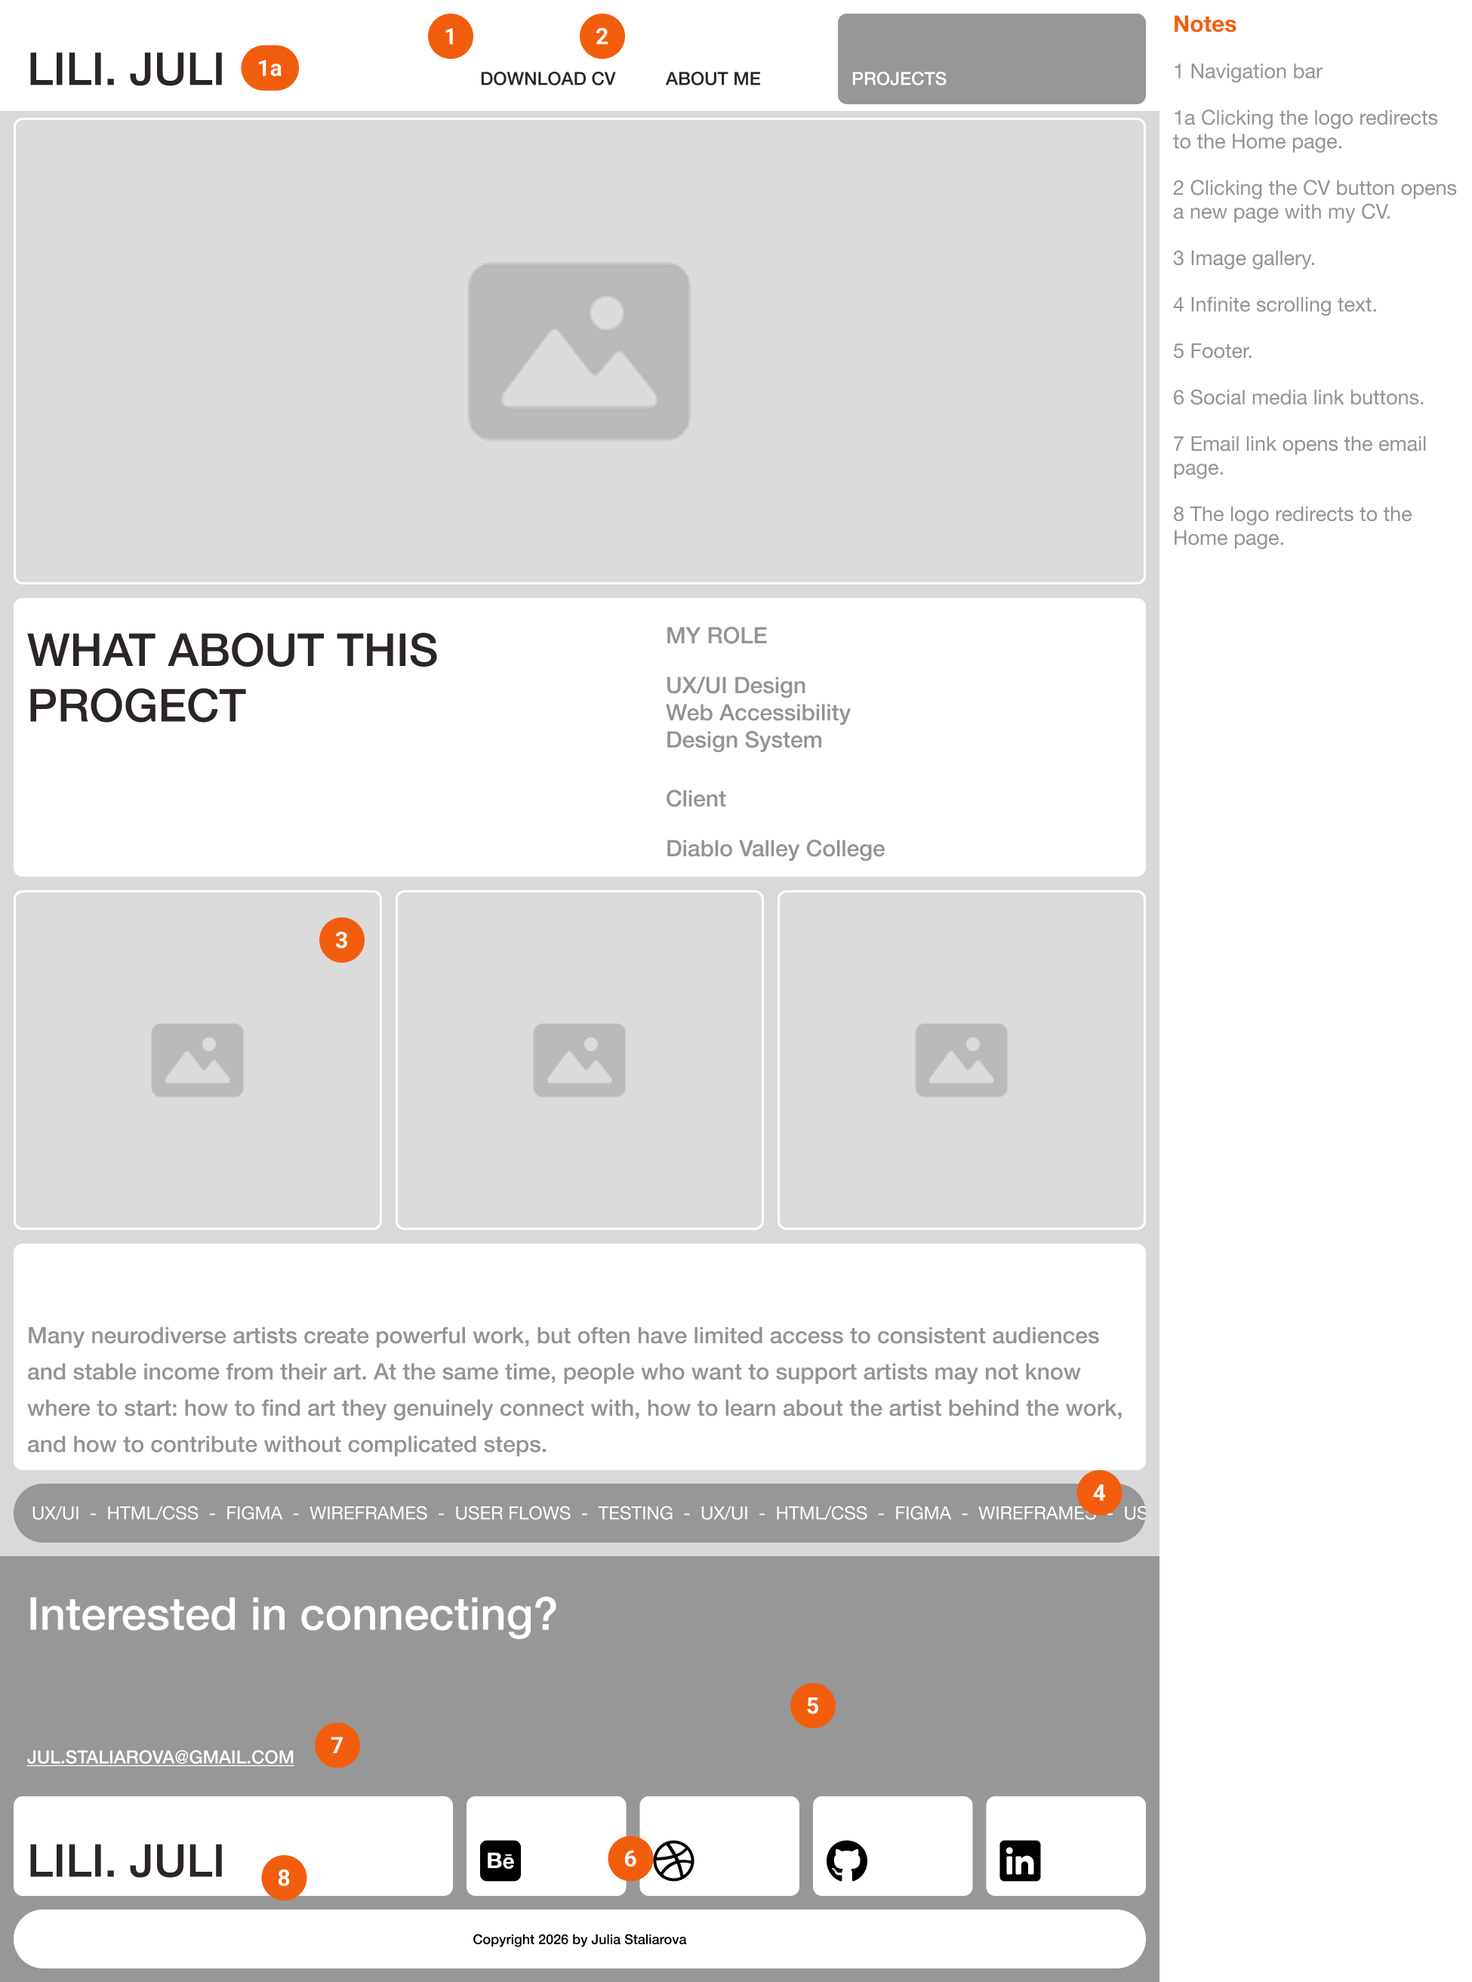
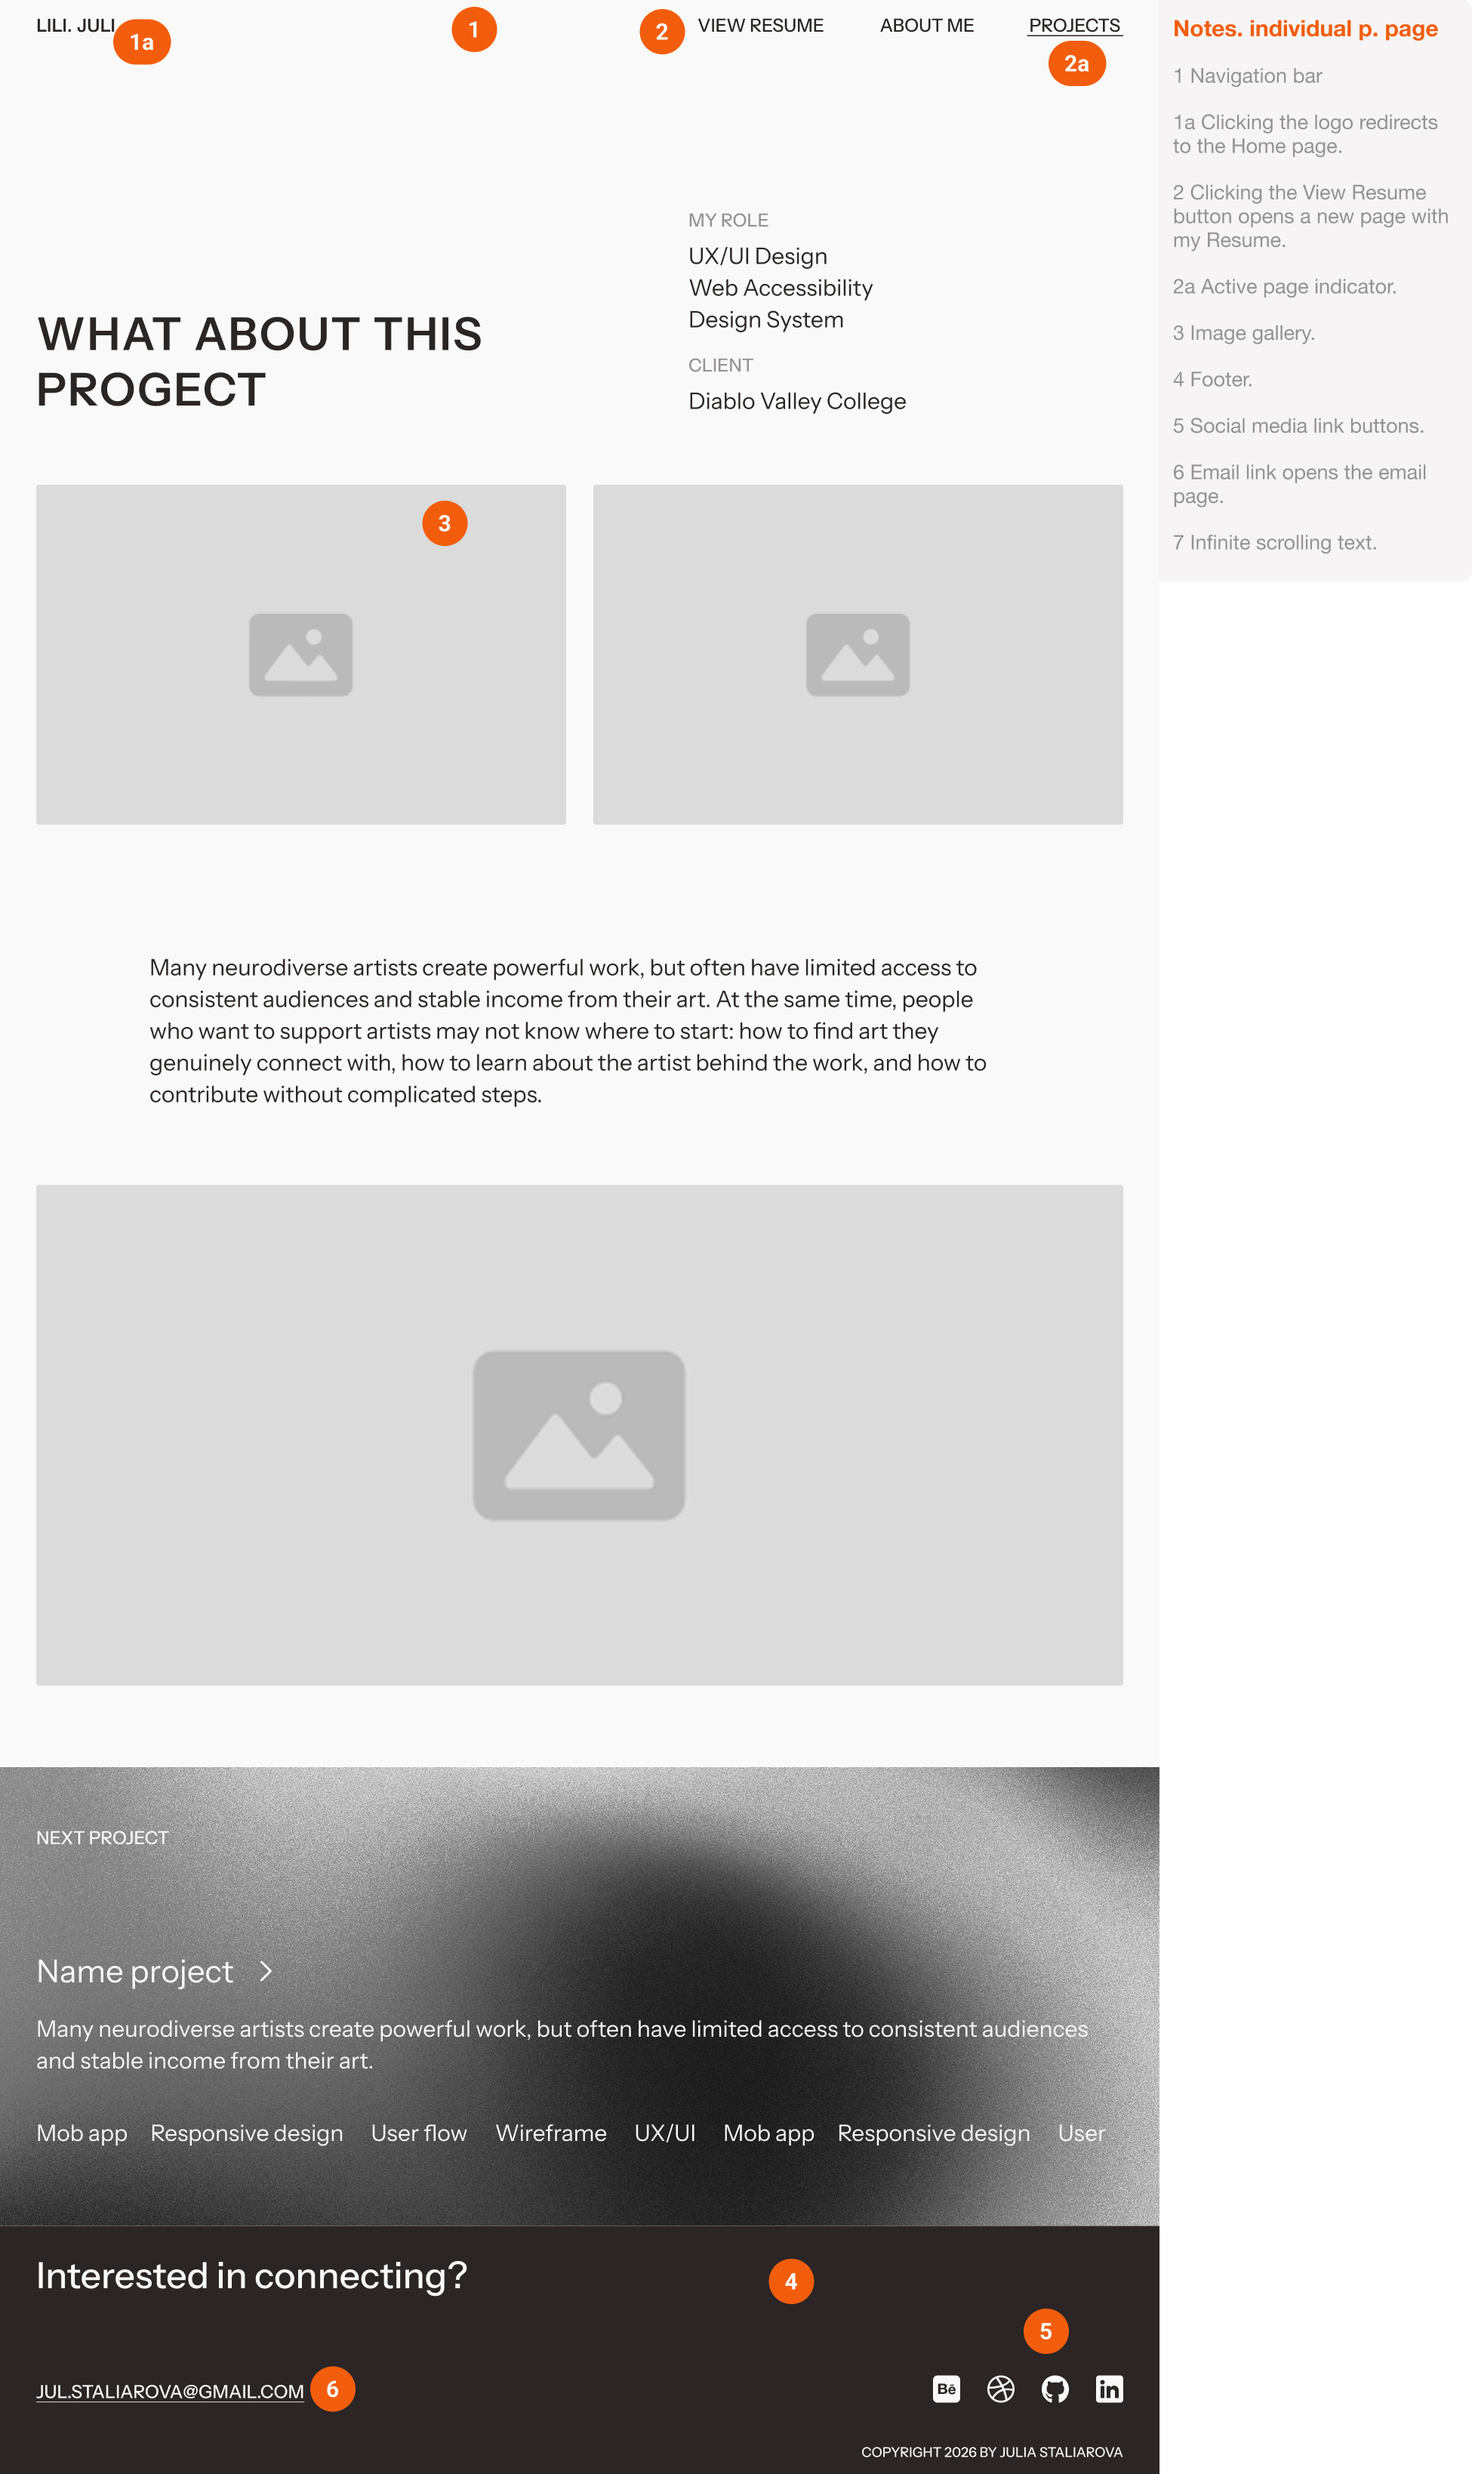
lab 4 and 5

diff --git a/labs/lab5/index.html b/labs/lab5/index.html
@@ -1,0 +1,34 @@
+<!DOCTYPE html>
+<html lang="en">
+
+<head>
+  <meta charset="utf-8">
+  <title>Lab4 Image Effects</title>
+  <meta name="viewport" content="width=device-width, initial-scale=1.0">
+  <meta name="robots" content="noindex, nofollow">
+
+  <link rel="stylesheet" href="/labs/css/main.css">
+</head>
+
+<body class="lab5">
+  
+    <header class="">
+      <nav class="">
+        <ul class="">
+          <li><a class="" href="/index.html">Jump Page</a></li>
+
+          <li><a class="" href="">Arrival Page</a></li>
+        </ul>
+      </nav>
+      <h1 class="">Responsive Images
+      </h1>
+      <p class=""></p>
+    </header>
+
+    <main class="">
+      <p>Ⓒ 2026 This fictitious website was created as an academic exercise for the Diablo Valley College course,
+            ARTDM-173: Web Design II. In no way should this content be considered or used as a source of factual public
+            information.</p>
+       
+    </main>
+</body>

diff --git a/index.html b/index.html
@@ -50,6 +50,7 @@
         <li><a href="/labs/lab1/index.html" class="">lab_1 CSS Layout w/ Flexbox and Grid</a></li>
         <li><a href="/labs/lab2/index.html" class="">lab_2 Transitions & Animations</a></li>
         <li><a href="/labs/lab3/index.html" class="">Lab_3 Advanced Layout</a></li>
+        <li><a href="/labs/lab4/index.html" class="">Lab_4 Image Effects</a></li>
     </ol>
     </main>
     <footer class="">

diff --git a/labs/lab3/index.html b/labs/lab3/index.html
@@ -18,7 +18,7 @@
         <ul class="lab3-navlist">
           <li><a class="lab3-btn" href="/index.html">Jump Page</a></li>
           <li class="lab3-navcenter">Julia Staliarova — LiliJuli</li>
-          <li><a class="lab3-btn" href="/labs/lab4/index.html">Arrival Page</a></li>
+          <li><a class="lab3-btn" href="/labs/lab4/index.html">Next Lab</a></li>
         </ul>
       </nav>
 
